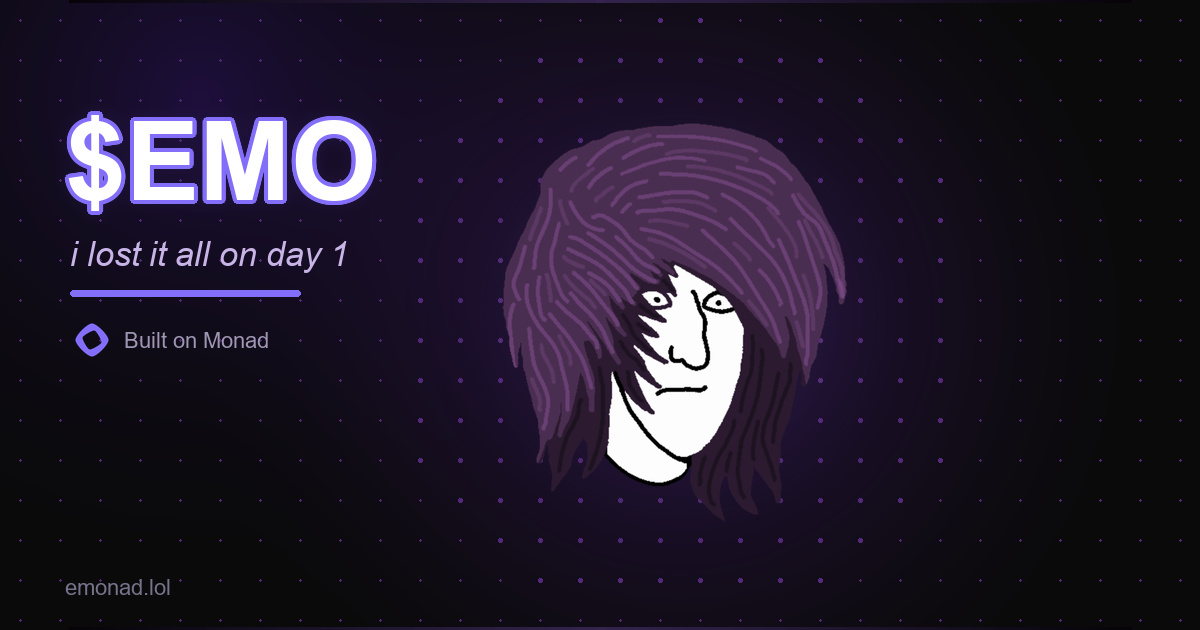
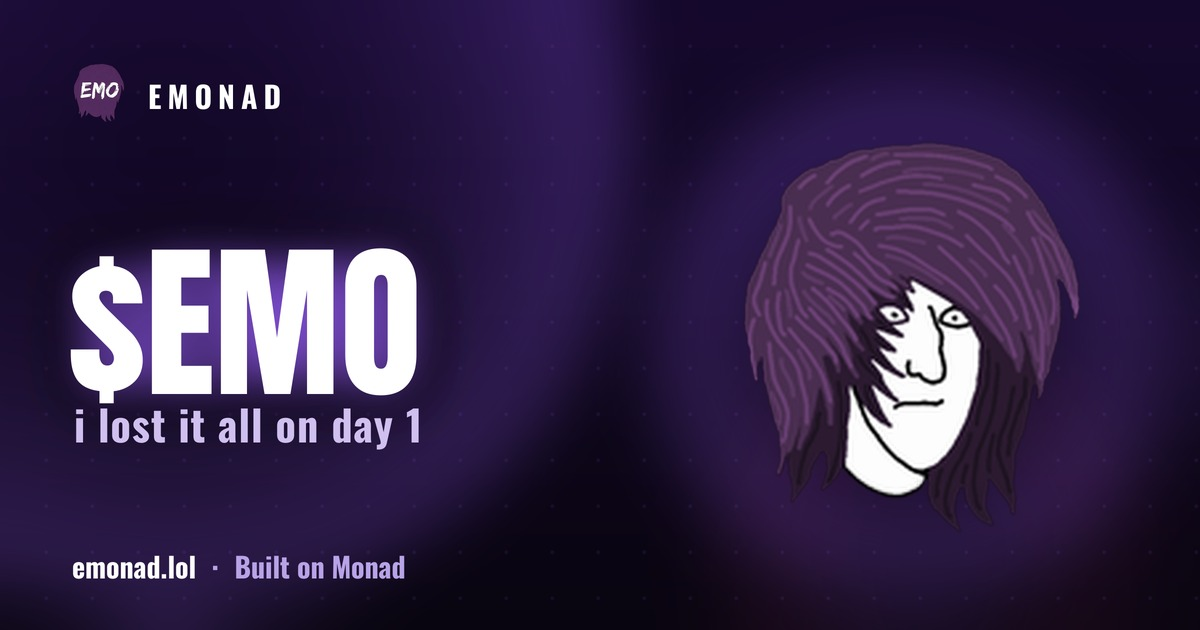
feat: redesigned OG preview card + bare-domain social tags
- og-image.jpg: new 1200x630 card — emo head (favicon logo) + EMO logo
  lockup, $EMO hero, "i lost it all on day 1", Built on Monad. Generated by
  scripts/make-og-home.py (reproducible from icon-192x192.png + emo logo).
- index.html: add full OG/Twitter meta block so the bare emonad.lol domain
  finally gets a preview card — crawlers scrape this page directly and do
  NOT follow the JS/meta redirect.
- drop "emo kid of Monad" branding -> "emo memecoin on Monad" across
  emo.html, memes.html, manifest.json, llms.txt.

Card drives previews for the bare domain, emo.html, profile.html, memes.html.

diff --git a/index.html b/index.html
@@ -2,9 +2,36 @@
 <html lang="en">
 <head>
   <meta charset="UTF-8">
-  <title>Emonad — $EMO</title>
+  <title>Emonad ($EMO) — Emo Memecoin on Monad</title>
   <meta name="viewport" content="width=device-width, initial-scale=1">
+  <meta name="description" content="Emonad ($EMO) is the emo memecoin on Monad. Live price, charts, where to buy, community memes, Emo Tarot readings, and the upcoming Emo Nads PFP collection. The emo memecoin on Monad.">
   <link rel="canonical" href="https://emonad.lol/emo.html">
+
+  <!-- Open Graph / social preview. These live on index.html (not just
+       emo.html) because most people share the bare emonad.lol domain, and
+       social crawlers scrape this page's HTML directly — they do NOT follow
+       the meta-refresh/JS redirect below. Without these, the bare domain
+       shows no preview card. Kept in sync with emo.html. -->
+  <meta property="og:title" content="Emonad ($EMO) — Emo Memecoin on Monad">
+  <meta property="og:description" content="The emo memecoin on Monad. Live charts, memes, tarot, and the Emo Nads PFP collection.">
+  <meta property="og:image" content="https://emonad.lol/og-image.jpg">
+  <meta property="og:image:secure_url" content="https://emonad.lol/og-image.jpg">
+  <meta property="og:image:type" content="image/jpeg">
+  <meta property="og:image:width" content="1200">
+  <meta property="og:image:height" content="630">
+  <meta property="og:image:alt" content="Emonad ($EMO) — Emo Memecoin on Monad">
+  <meta property="og:url" content="https://emonad.lol/">
+  <meta property="og:type" content="website">
+  <meta property="og:site_name" content="Emonad">
+  <meta property="og:locale" content="en_US">
+  <meta name="twitter:card" content="summary_large_image">
+  <meta name="twitter:site" content="@EmonadCoin">
+  <meta name="twitter:creator" content="@EmonadCoin">
+  <meta name="twitter:title" content="Emonad ($EMO) — Emo Memecoin on Monad">
+  <meta name="twitter:description" content="The emo memecoin on Monad. Live charts, memes, tarot, and the Emo Nads PFP collection.">
+  <meta name="twitter:image" content="https://emonad.lol/og-image.jpg">
+  <meta name="twitter:image:alt" content="Emonad ($EMO) — Emo Memecoin on Monad">
+
   <meta http-equiv="refresh" content="0; url=/emo.html">
   <script>
     // Preserve query string + hash on redirect — without this, links like

diff --git a/emo.html b/emo.html
@@ -14,7 +14,7 @@
   <meta name="apple-mobile-web-app-capable" content="yes">
   <meta name="mobile-web-app-capable" content="yes">
   <title>Emonad ($EMO) — Emo Memecoin on Monad</title>
-  <meta name="description" content="Emonad ($EMO) is the emo memecoin on Monad. Live price, charts, where to buy, community memes, Emo Tarot readings, and the upcoming Emo Nads PFP collection. The emo kid of the Monad ecosystem.">
+  <meta name="description" content="Emonad ($EMO) is the emo memecoin on Monad. Live price, charts, where to buy, community memes, Emo Tarot readings, and the upcoming Emo Nads PFP collection. The emo memecoin on Monad.">
   <meta name="keywords" content="emonad, $emo, emo memecoin, monad memecoin, monad meme coin, emo monad, monad community coin, emo coin">
   <meta name="author" content="Emonad">
   <meta name="robots" content="index, follow, max-image-preview:large">
@@ -22,7 +22,7 @@
 
   <!-- OG / Social Meta -->
   <meta property="og:title" content="Emonad ($EMO) — Emo Memecoin on Monad">
-  <meta property="og:description" content="The emo kid of Monad. Live charts, memes, tarot, and the Emo Nads PFP collection.">
+  <meta property="og:description" content="The emo memecoin on Monad. Live charts, memes, tarot, and the Emo Nads PFP collection.">
   <meta property="og:image" content="https://emonad.lol/og-image.jpg">
   <meta property="og:url" content="https://emonad.lol/">
   <meta property="og:type" content="website">
@@ -35,7 +35,7 @@
   <meta name="twitter:site" content="@EmonadCoin">
   <meta name="twitter:creator" content="@EmonadCoin">
   <meta name="twitter:title" content="Emonad ($EMO) — Emo Memecoin on Monad">
-  <meta name="twitter:description" content="The emo kid of Monad. Live charts, memes, tarot, and the Emo Nads PFP collection.">
+  <meta name="twitter:description" content="The emo memecoin on Monad. Live charts, memes, tarot, and the Emo Nads PFP collection.">
   <meta name="twitter:image" content="https://emonad.lol/og-image.jpg">
 
   <!-- Structured data -->
@@ -1514,7 +1514,7 @@
       <span class="footer-dot">·</span>
       <a href="https://t.me/+8RP7jI5wA3o2N2Fh" target="_blank" rel="noopener noreferrer">Telegram</a>
       <span class="footer-dot">·</span>
-      <span>the emo kid of Monad</span>
+      <span>the emo memecoin on Monad</span>
     </footer>
   </div>
 

diff --git a/memes.html b/memes.html
@@ -13,7 +13,7 @@
   <meta name="apple-mobile-web-app-capable" content="yes">
   <meta name="mobile-web-app-capable" content="yes">
   <title>$EMO Memes — Emonad Meme Gallery on Monad</title>
-  <meta name="description" content="The official Emonad ($EMO) meme gallery — community-curated memes, art, and the Emo Tarot Major Arcana. The emo kid of Monad's meme stash.">
+  <meta name="description" content="The official Emonad ($EMO) meme gallery — community-curated memes, art, and the Emo Tarot Major Arcana. The emo memecoin on Monad's meme stash.">
   <meta name="keywords" content="emonad memes, $emo memes, monad memes, emo memes, monad memecoin memes">
   <meta name="robots" content="index, follow, max-image-preview:large">
   <link rel="canonical" href="https://emonad.lol/memes.html">

diff --git a/scripts/make-og-home.py b/scripts/make-og-home.py
@@ -1,0 +1,159 @@
+"""Generate the homepage / bare-domain social preview card (1200x630).
+
+Design: the emo head (the favicon logo, icon-192x192.png — already a clean
+transparent cutout) glowing on the right, the $EMO hero wordmark + "i lost it
+all on day 1" on the left, the EMO logo as the brand lockup up top, over a dark
+Monad-purple gradient with glows + dot grid.
+
+Reproducible from committed assets only: icon-192x192.png + stickers/emo logo.png.
+Renders at 2x and downsamples (LANCZOS) for crisp edges + glows.
+Output: og-image.jpg (site-wide card: index/emo/profile/memes).
+
+    python3 scripts/make-og-home.py
+"""
+import os
+from PIL import Image, ImageDraw, ImageFilter, ImageFont
+
+ROOT = os.path.dirname(os.path.dirname(os.path.abspath(__file__)))
+FONTS = os.path.join(ROOT, "fonts")
+OUT = os.path.join(ROOT, "og-image.jpg")
+HEAD_IMG = os.path.join(ROOT, "icon-192x192.png")
+LOGO = os.path.join(ROOT, "stickers", "emo logo.png")
+
+S = 2
+W, H = 1200, 630
+WS, HS = W * S, H * S
+
+BG_TOP = (22, 9, 46)
+BG_BOT = (9, 5, 16)
+ACCENT = (155, 95, 255)
+PINK   = (236, 72, 153)
+WHITE  = (255, 255, 255)
+MUTED  = (184, 163, 232)
+
+
+def font(name, size):
+    return ImageFont.truetype(os.path.join(FONTS, name), size * S)
+
+ANTON = lambda px: font("Anton-Regular.ttf", px)
+OSWALD = lambda px: font("Oswald-Bold.ttf", px)
+
+
+def lerp(a, b, t):
+    return tuple(int(a[i] + (b[i] - a[i]) * t) for i in range(3))
+
+
+def load_head():
+    """The favicon logo — already a transparent cutout. Trim its transparent
+    padding so it scales to fill the intended size."""
+    head = Image.open(HEAD_IMG).convert("RGBA")
+    bb = head.getbbox()
+    return head.crop(bb) if bb else head
+
+
+def vertical_gradient():
+    img = Image.new("RGB", (WS, HS), BG_BOT)
+    d = ImageDraw.Draw(img)
+    for y in range(HS):
+        d.line([(0, y), (WS, y)], fill=lerp(BG_TOP, BG_BOT, y / HS))
+    return img
+
+
+def radial_glow(cx, cy, radius, color, peak_alpha, blur=40):
+    layer = Image.new("RGBA", (WS, HS), (0, 0, 0, 0))
+    d = ImageDraw.Draw(layer)
+    steps = 80
+    for i in range(steps, 0, -1):
+        r = int(radius * S * (i / steps))
+        a = int(peak_alpha * (i / steps) ** 2.0)
+        d.ellipse((cx * S - r, cy * S - r, cx * S + r, cy * S + r), fill=(*color, a))
+    return layer.filter(ImageFilter.GaussianBlur(blur * S))
+
+
+def dot_grid():
+    layer = Image.new("RGBA", (WS, HS), (0, 0, 0, 0))
+    d = ImageDraw.Draw(layer)
+    gap, r = 46, 2
+    for y in range(gap, H, gap):
+        for x in range(gap, W, gap):
+            d.ellipse((x * S - r * S, y * S - r * S, x * S + r * S, y * S + r * S),
+                      fill=(*ACCENT, 24))
+    return layer.filter(ImageFilter.GaussianBlur(0.5 * S))
+
+
+def tracked_text(draw, x, y, text, fnt, fill, tracking):
+    tr = tracking * S
+    for ch in text:
+        draw.text((x, y), ch, font=fnt, fill=fill)
+        x += draw.textlength(ch, font=fnt) + tr
+
+
+def glow_text_left(base, x, top_y, text, fnt, fill, glow_color, radius, alpha, passes=3):
+    glow = Image.new("RGBA", (WS, HS), (0, 0, 0, 0))
+    ImageDraw.Draw(glow).text((x, top_y), text, font=fnt, fill=(*glow_color, alpha))
+    glow = glow.filter(ImageFilter.GaussianBlur(radius * S))
+    out = base.convert("RGBA")
+    for _ in range(passes):
+        out = Image.alpha_composite(out, glow)
+    ImageDraw.Draw(out).text((x, top_y), text, font=fnt, fill=fill)
+    return out
+
+
+def paste(base, img, cx, cy):
+    """alpha-composite img centered at (cx,cy) in 1200x630 space."""
+    layer = Image.new("RGBA", (WS, HS), (0, 0, 0, 0))
+    layer.paste(img, (int(cx * S - img.width / 2), int(cy * S - img.height / 2)), img)
+    return Image.alpha_composite(base.convert("RGBA"), layer)
+
+
+def main():
+    img = vertical_gradient().convert("RGBA")
+    img = Image.alpha_composite(img, radial_glow(170, 150, 480, ACCENT, 80))
+
+    # head on the right with a glow halo behind it
+    head = load_head()
+    head_h = 404 * S
+    head = head.resize((int(head.width * head_h / head.height), head_h), Image.LANCZOS)
+    HEAD_CX, HEAD_CY = 912, 338
+    img = Image.alpha_composite(img, radial_glow(HEAD_CX, HEAD_CY, 280, ACCENT, 98, blur=46))
+    img = Image.alpha_composite(img, radial_glow(HEAD_CX + 20, 540, 230, PINK, 36, blur=56))
+    img = Image.alpha_composite(img, dot_grid())
+    img = paste(img, head, HEAD_CX, HEAD_CY)
+
+    d = ImageDraw.Draw(img)
+
+    # ── brand lockup: EMO logo + EMONAD ──
+    logo = Image.open(LOGO).convert("RGBA")
+    lh = 58 * S
+    logo = logo.resize((int(logo.width * lh / logo.height), lh), Image.LANCZOS)
+    LX, LY = 70, 64
+    img.paste(logo, (LX * S, LY * S), logo)
+    d = ImageDraw.Draw(img)
+    lock_f = OSWALD(30)
+    ascent = lock_f.getmetrics()[0]
+    tracked_text(d, LX * S + logo.width + 20 * S,
+                 LY * S + (lh - ascent) / 2 - 2 * S, "EMONAD", lock_f, WHITE, 6)
+
+    # ── hero $EMO ──
+    img = glow_text_left(img, 68 * S, 196 * S, "$EMO", ANTON(168), WHITE, ACCENT, 26, 195)
+    d = ImageDraw.Draw(img)
+
+    # ── tagline ──
+    tracked_text(d, 74 * S, 392 * S, "i lost it all on day 1", OSWALD(42), (208, 192, 240), 1)
+
+    # ── footer ──
+    foot_f = OSWALD(28)
+    fx = 72 * S
+    d.text((fx, 545 * S), "emonad.lol", font=foot_f, fill=WHITE)
+    fx += d.textlength("emonad.lol", font=foot_f) + 16 * S
+    d.text((fx, 545 * S), "·", font=foot_f, fill=MUTED)
+    fx += d.textlength("·", font=foot_f) + 16 * S
+    d.text((fx, 545 * S), "Built on Monad", font=foot_f, fill=MUTED)
+
+    final = img.convert("RGB").resize((W, H), Image.LANCZOS)
+    final.save(OUT, "JPEG", quality=92, optimize=True)
+    print("wrote", OUT, final.size)
+
+
+if __name__ == "__main__":
+    main()
